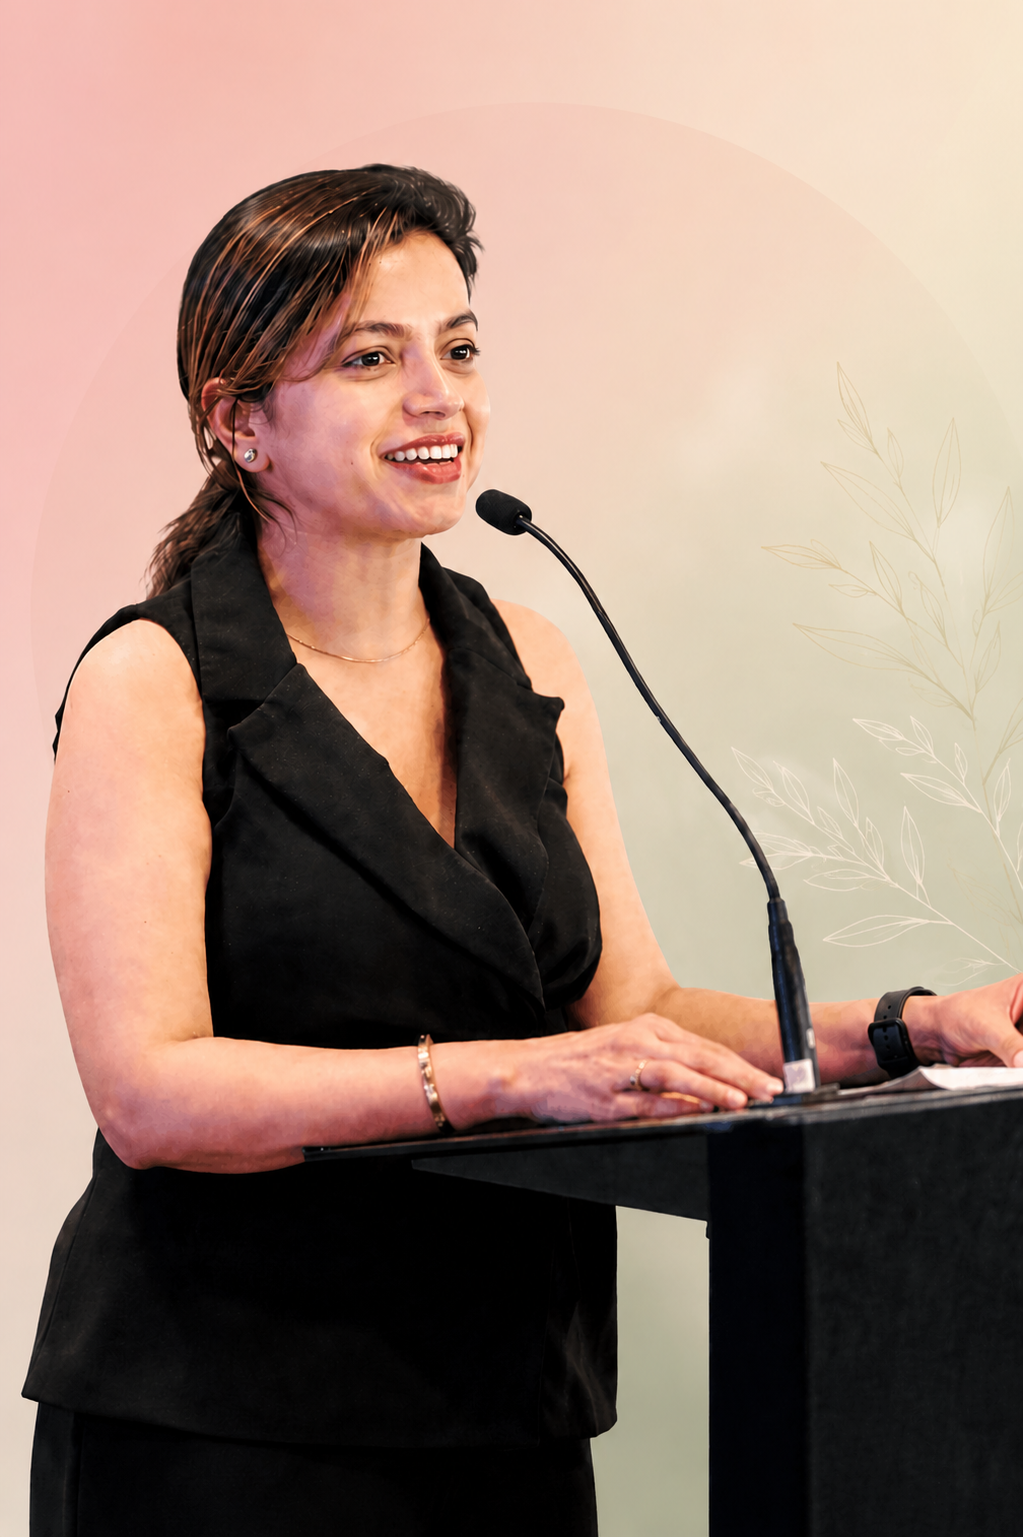
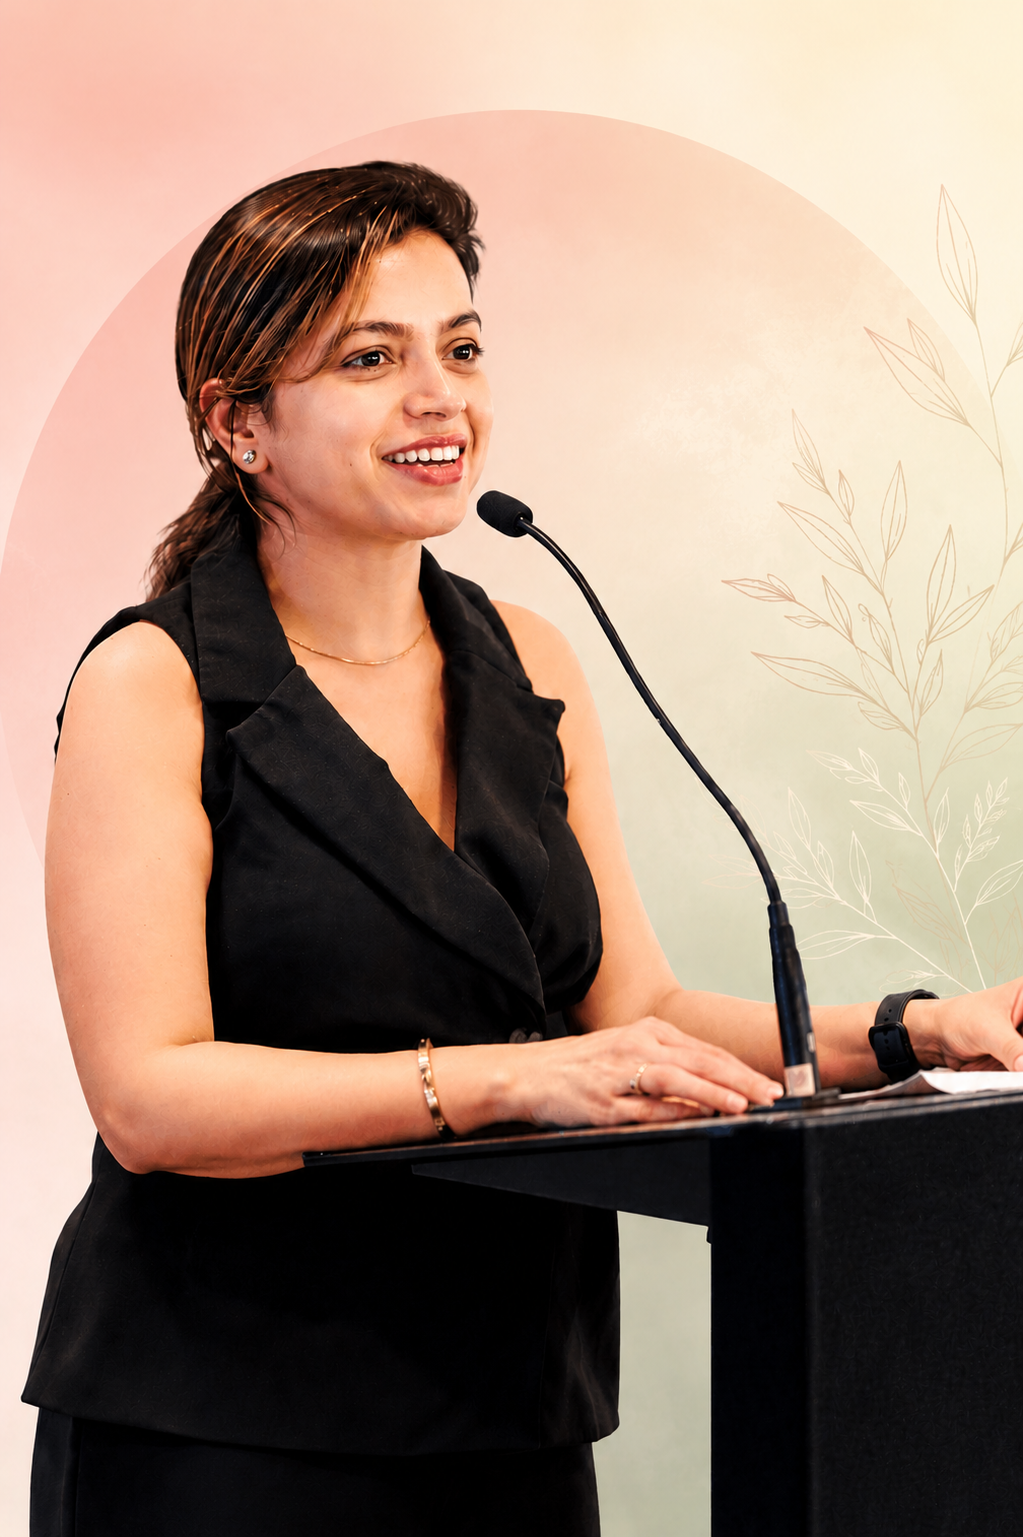
font change

diff --git a/src/components/home/hero-section.tsx b/src/components/home/hero-section.tsx
@@ -1,6 +1,5 @@
 "use client";
 
-import Image from "next/image";
 import Link from "next/link";
 import { motion } from "framer-motion";
 import { ArrowRight, Check } from "lucide-react";
@@ -9,16 +8,24 @@ import { heroContent, heroTrustBadges } from "@/data/home-content";
 export function HeroSection() {
   return (
     <section className="relative w-full">
-      {/* 16:9 full-bleed hero image */}
+      {/* 16:9 full-bleed hero video */}
       <div className="relative aspect-video w-full min-h-[100svh] sm:min-h-0 sm:max-h-[92vh]">
-        <Image
-          src={heroContent.image}
-          alt={heroContent.imageAlt}
-          fill
-          priority
-          className="object-cover object-center"
-          sizes="100vw"
-        />
+        {heroContent.videoUrl ? (
+          <video
+            src={heroContent.videoUrl}
+            autoPlay
+            muted
+            loop
+            playsInline
+            preload="metadata"
+            className="absolute inset-0 h-full w-full object-cover object-center"
+          />
+        ) : (
+          <div
+            className="absolute inset-0 h-full w-full bg-cover bg-center"
+            style={{ backgroundImage: `url('${heroContent.image}')` }}
+          />
+        )}
 
         {/* Dark cinematic overlay */}
         <div className="absolute inset-0 bg-gradient-to-b from-charcoal/55 via-charcoal/25 to-charcoal/85" />
@@ -42,25 +49,25 @@ export function HeroSection() {
 
         {/* Desktop: marketing line + Get Started */}
         <div className="absolute inset-0 hidden flex-col justify-end lg:flex">
-          <div className="mx-auto w-full max-w-7xl px-8 pb-14 xl:px-12 xl:pb-16">
+          <div className="mx-auto w-full max-w-7xl px-8 pb-10 xl:px-12 xl:pb-12">
             <motion.div
               initial={{ opacity: 0, y: 28 }}
               animate={{ opacity: 1, y: 0 }}
               transition={{ duration: 0.8, ease: [0.22, 1, 0.36, 1] }}
-              className="max-w-3xl"
+              className="max-w-2xl"
             >
-              <p className="mb-3 text-xs font-semibold uppercase tracking-[0.25em] text-cream/70">
+              <p className="mb-2 text-xs font-semibold uppercase tracking-[0.22em] text-cream/70">
                 Women&apos;s Health Coaching
               </p>
-              <h1 className="font-display text-4xl leading-[1.08] text-cream xl:text-5xl 2xl:text-[3.5rem]">
+              <h1 className="font-display text-[2.5rem] leading-[1.02] text-cream xl:text-[3.1rem] 2xl:text-[3.35rem]">
                 {heroContent.marketingLine}
               </h1>
-              <p className="mt-3 text-xl italic text-cream/85 sm:text-2xl xl:text-3xl">
+              <p className="mt-2 text-lg italic text-cream/85 sm:text-xl xl:text-2xl">
                 {heroContent.marketingSubline}
               </p>
               <Link
                 href="/consultation"
-                className="group mt-8 inline-flex items-center gap-2 rounded-full bg-cream px-7 py-3.5 text-sm font-semibold uppercase tracking-[0.12em] text-charcoal transition-all hover:bg-beige-100 hover:shadow-lg"
+                className="group mt-6 inline-flex items-center gap-2 rounded-full bg-cream px-6 py-3 text-sm font-semibold uppercase tracking-[0.11em] text-charcoal transition-all hover:bg-beige-100 hover:shadow-lg"
               >
                 Get Started
                 <ArrowRight className="h-4 w-4 transition-transform group-hover:translate-x-0.5" />
@@ -70,16 +77,16 @@ export function HeroSection() {
         </div>
 
         {/* Mobile: compact tagline at bottom */}
-        <div className="absolute inset-x-0 bottom-0 z-10 px-4 pb-8 pt-24 lg:hidden">
+        <div className="absolute inset-x-0 bottom-0 z-10 px-4 pb-6 pt-20 lg:hidden">
           <motion.div
             initial={{ opacity: 0, y: 16 }}
             animate={{ opacity: 1, y: 0 }}
             transition={{ duration: 0.6, delay: 0.15 }}
           >
-            <h1 className="font-display text-2xl leading-tight text-cream sm:text-3xl">
+            <h1 className="font-display text-[1.7rem] leading-tight text-cream sm:text-[2rem]">
               {heroContent.marketingLine}
             </h1>
-            <p className="mt-2 text-sm leading-relaxed text-cream/80">
+            <p className="mt-1.5 text-sm leading-relaxed text-cream/80">
               {heroContent.marketingSubline}
             </p>
           </motion.div>

diff --git a/src/components/layout/site-loader.tsx b/src/components/layout/site-loader.tsx
@@ -16,12 +16,12 @@ export function SiteLoader({ children }: { children: React.ReactNode }) {
   useEffect(() => {
     const rotate = window.setInterval(() => {
       setLineIndex((prev) => (prev + 1) % lines.length);
-    }, 550);
+    }, 420);
 
     const hide = window.setTimeout(() => {
       setShowLoader(false);
       window.clearInterval(rotate);
-    }, 2000);
+    }, 1400);
 
     return () => {
       window.clearTimeout(hide);
@@ -36,11 +36,12 @@ export function SiteLoader({ children }: { children: React.ReactNode }) {
           <motion.div
             initial={{ opacity: 1 }}
             exit={{ opacity: 0, transition: { duration: 0.45 } }}
-            className="fixed inset-0 z-[999] isolate flex items-center justify-center overflow-hidden bg-gradient-to-br from-[#f4e7df] via-[#eddcd3] to-[#e4d7ce]"
+            className="fixed inset-0 z-[999] isolate flex items-center justify-center overflow-hidden bg-gradient-to-b from-[#f5eee7] via-[#f1e6dd] to-[#e8dbcf]"
           >
-            <div className="pointer-events-none absolute -top-20 -left-20 z-0 h-64 w-64 rounded-full bg-blush-200/60 blur-3xl sm:h-72 sm:w-72" />
-            <div className="pointer-events-none absolute -right-24 top-1/3 z-0 h-72 w-72 rounded-full bg-sage-100/60 blur-3xl sm:h-80 sm:w-80" />
-            <div className="pointer-events-none absolute -bottom-6 left-1/3 z-0 h-48 w-48 rounded-full bg-beige-200/70 blur-3xl sm:h-56 sm:w-56" />
+            {/* Soft pastel blobs similar to IAFHH palette */}
+            <div className="pointer-events-none absolute -top-24 -left-16 z-0 h-64 w-64 rounded-full bg-[#f0d9cf]/60 blur-3xl sm:h-72 sm:w-72" />
+            <div className="pointer-events-none absolute -right-24 top-1/3 z-0 h-72 w-72 rounded-full bg-[#e3d2c3]/55 blur-3xl sm:h-80 sm:w-80" />
+            <div className="pointer-events-none absolute -bottom-10 left-1/3 z-0 h-52 w-52 rounded-full bg-[#e4f0e4]/55 blur-3xl sm:h-60 sm:w-60" />
             <div className="relative z-10 px-6 text-center">
               <p className="font-display text-4xl tracking-tight text-charcoal sm:text-5xl">
                 SyncwellnessCo
@@ -50,7 +51,7 @@ export function SiteLoader({ children }: { children: React.ReactNode }) {
                 initial={{ opacity: 0, y: 10 }}
                 animate={{ opacity: 1, y: 0 }}
                 exit={{ opacity: 0 }}
-                className="mt-4 text-sm uppercase tracking-[0.18em] text-sage-700 sm:text-base"
+                className="mt-3 text-xs uppercase tracking-[0.16em] text-sage-700 sm:text-sm"
               >
                 {lines[lineIndex]}
               </motion.p>

diff --git a/src/app/layout.tsx b/src/app/layout.tsx
@@ -1,19 +1,19 @@
 import type { Metadata } from "next";
-import { Bowlby_One, DM_Sans } from "next/font/google";
+import { Cormorant_Garamond, Open_Sans } from "next/font/google";
 import "./globals.css";
 import { JsonLd } from "@/components/seo/json-ld";
 import { SiteLoader } from "@/components/layout/site-loader";
 import { siteConfig } from "@/data/site";
 
-const bowlby = Bowlby_One({
-  variable: "--font-bowlby",
+const cormorant = Cormorant_Garamond({
+  variable: "--font-cormorant",
   subsets: ["latin"],
-  weight: "400",
+  weight: ["400", "500", "600", "700"],
   display: "swap",
 });
 
-const dmSans = DM_Sans({
-  variable: "--font-dm-sans",
+const openSans = Open_Sans({
+  variable: "--font-open-sans",
   subsets: ["latin"],
   weight: ["400", "500", "600", "700"],
   display: "swap",
@@ -54,7 +54,7 @@ export default function RootLayout({
   children: React.ReactNode;
 }>) {
   return (
-    <html lang="en" className={`${bowlby.variable} ${dmSans.variable}`}>
+    <html lang="en" className={`${cormorant.variable} ${openSans.variable}`}>
       <head>
         <JsonLd />
       </head>

diff --git a/src/app/globals.css b/src/app/globals.css
@@ -50,8 +50,8 @@
   --color-blush-200: var(--blush-200);
   --color-blush-300: var(--blush-300);
   --color-blush-800: var(--blush-800);
-  --font-sans: var(--font-dm-sans);
-  --font-display: var(--font-bowlby);
+  --font-sans: var(--font-open-sans);
+  --font-display: var(--font-cormorant);
   --animate-accordion-down: accordion-down 0.3s ease-out;
   --animate-accordion-up: accordion-up 0.3s ease-out;
 }
@@ -81,12 +81,12 @@ html {
 body {
   background: var(--background);
   color: var(--foreground);
-  font-family: var(--font-dm-sans), system-ui, sans-serif;
+  font-family: var(--font-open-sans), system-ui, sans-serif;
 }
 
 .font-display {
-  font-family: var(--font-bowlby), system-ui, sans-serif;
-  letter-spacing: 0.02em;
+  font-family: var(--font-cormorant), Georgia, serif;
+  letter-spacing: 0.01em;
 }
 
 ::selection {

diff --git a/src/components/ui/logo.tsx b/src/components/ui/logo.tsx
@@ -23,9 +23,7 @@ export function Logo({ className, variant = "default" }: LogoProps) {
           isLight ? "text-cream" : "text-charcoal"
         )}
       >
-        <span className="uppercase">Sync</span>
-        <span className="lowercase">wellness</span>
-        <span className="uppercase">Co</span>
+        SyncwellnessCo
       </span>
     </Link>
   );

diff --git a/src/components/ui/section-heading.tsx b/src/components/ui/section-heading.tsx
@@ -31,7 +31,7 @@ export function SectionHeading({
       )}
     >
       {eyebrow && (
-        <span className="mb-3 inline-block text-xs font-semibold uppercase tracking-[0.2em] text-sage-500">
+        <span className="mb-2 inline-block text-[11px] font-semibold uppercase tracking-[0.18em] text-sage-500">
           {eyebrow}
         </span>
       )}
@@ -39,7 +39,7 @@ export function SectionHeading({
         {title}
       </h2>
       {description && (
-        <p className="mt-4 text-base leading-relaxed text-sage-600 sm:text-lg">
+        <p className="mt-3 text-[15px] leading-relaxed text-sage-600 sm:text-base">
           {description}
         </p>
       )}

diff --git a/src/data/home-content.ts b/src/data/home-content.ts
@@ -1,6 +1,7 @@
 export const heroContent = {
   marketingLine: "Your hormone reset starts now.",
   marketingSubline: "Don't fight your body — heal it naturally.",
+  videoUrl: "https://res.cloudinary.com/daw1tscqr/video/upload/v1780400995/hero_banner_video_1_h4obp3.mp4", // Add Cloudinary URL here, e.g. https://res.cloudinary.com/.../video/upload/hero.mp4
   image:
     "https://images.unsplash.com/photo-1544367567-0f2fcb009e0b?w=1920&h=1080&fit=crop&q=85",
   imageAlt: